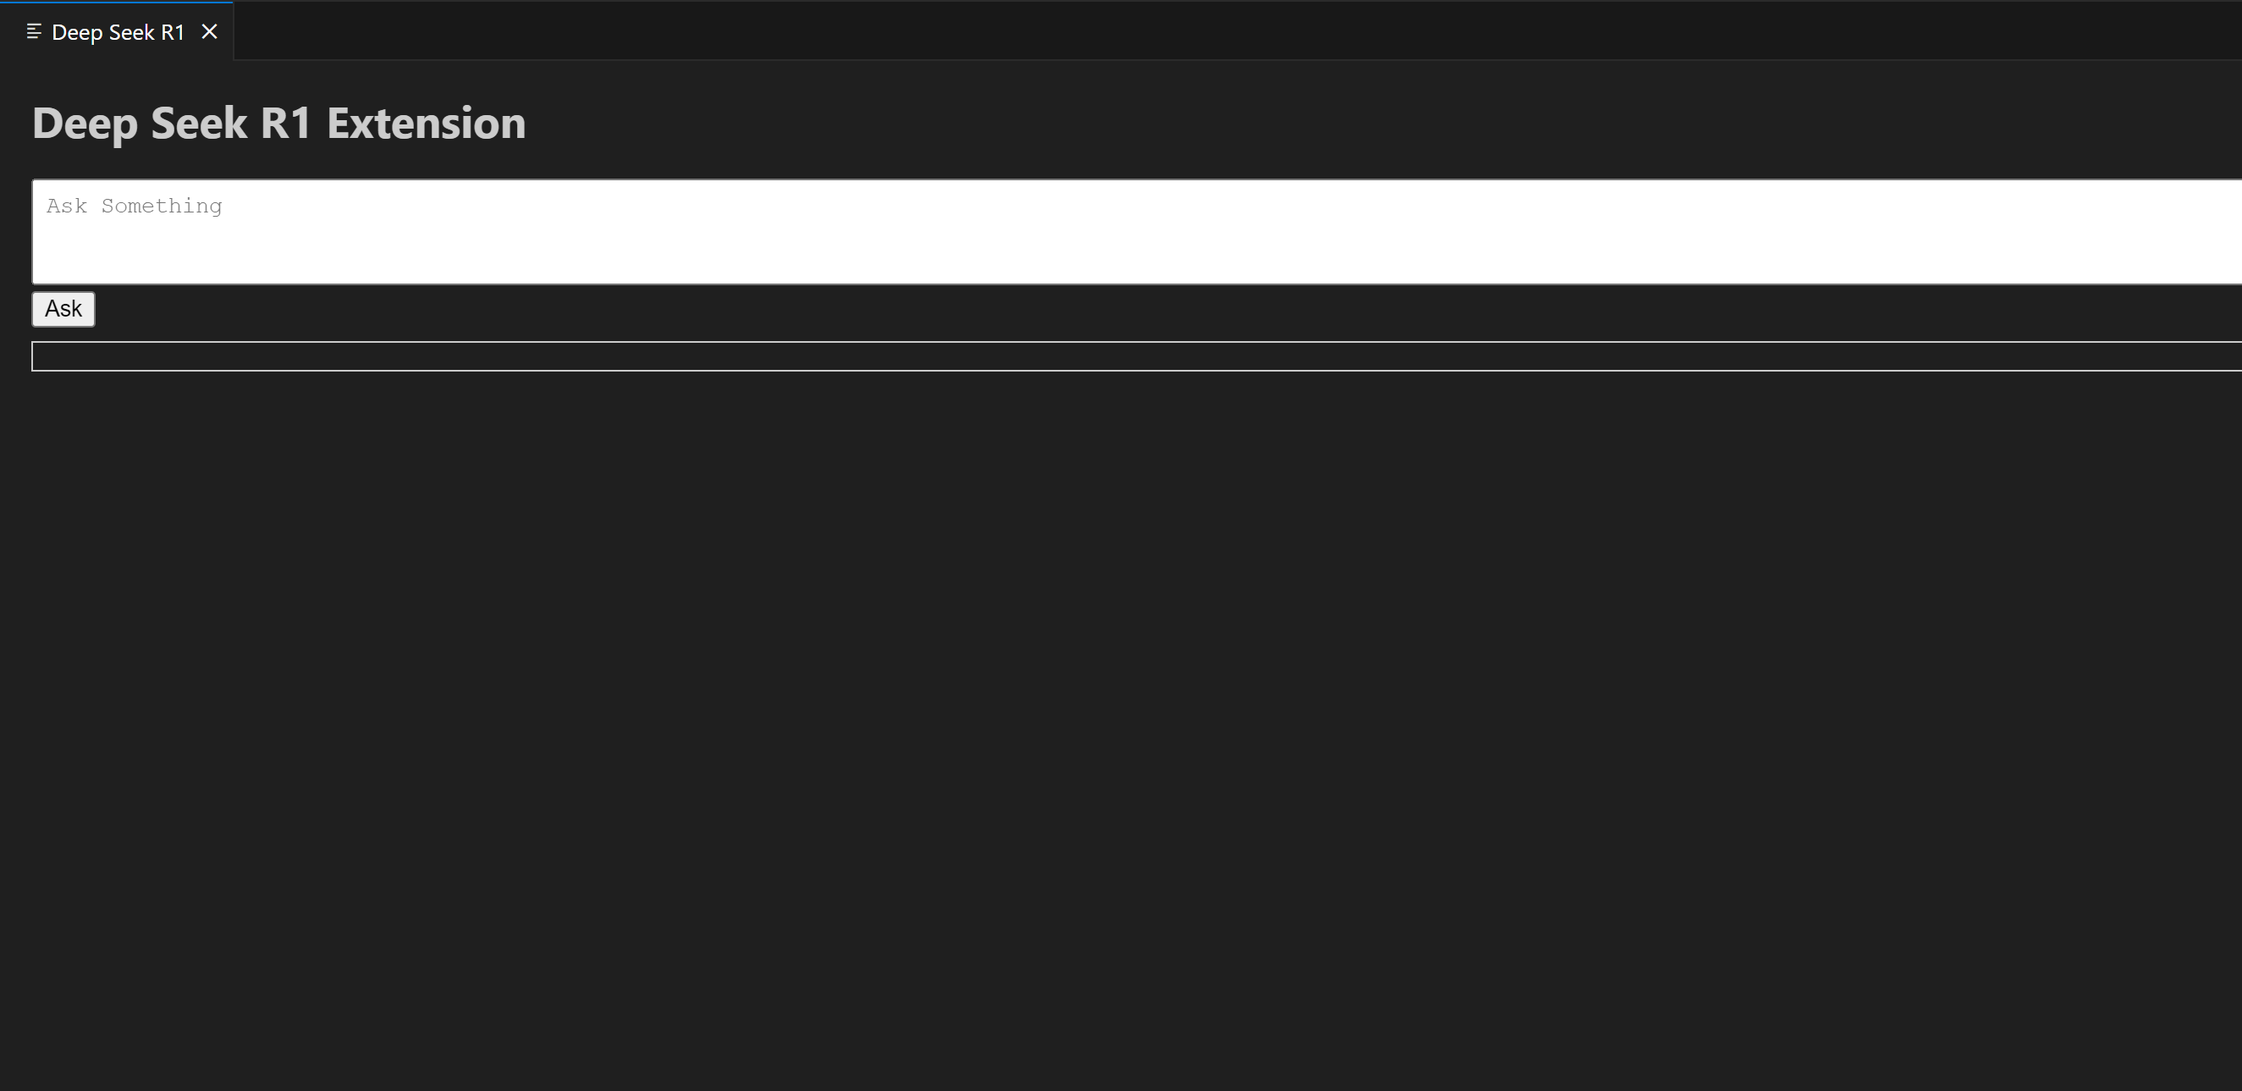
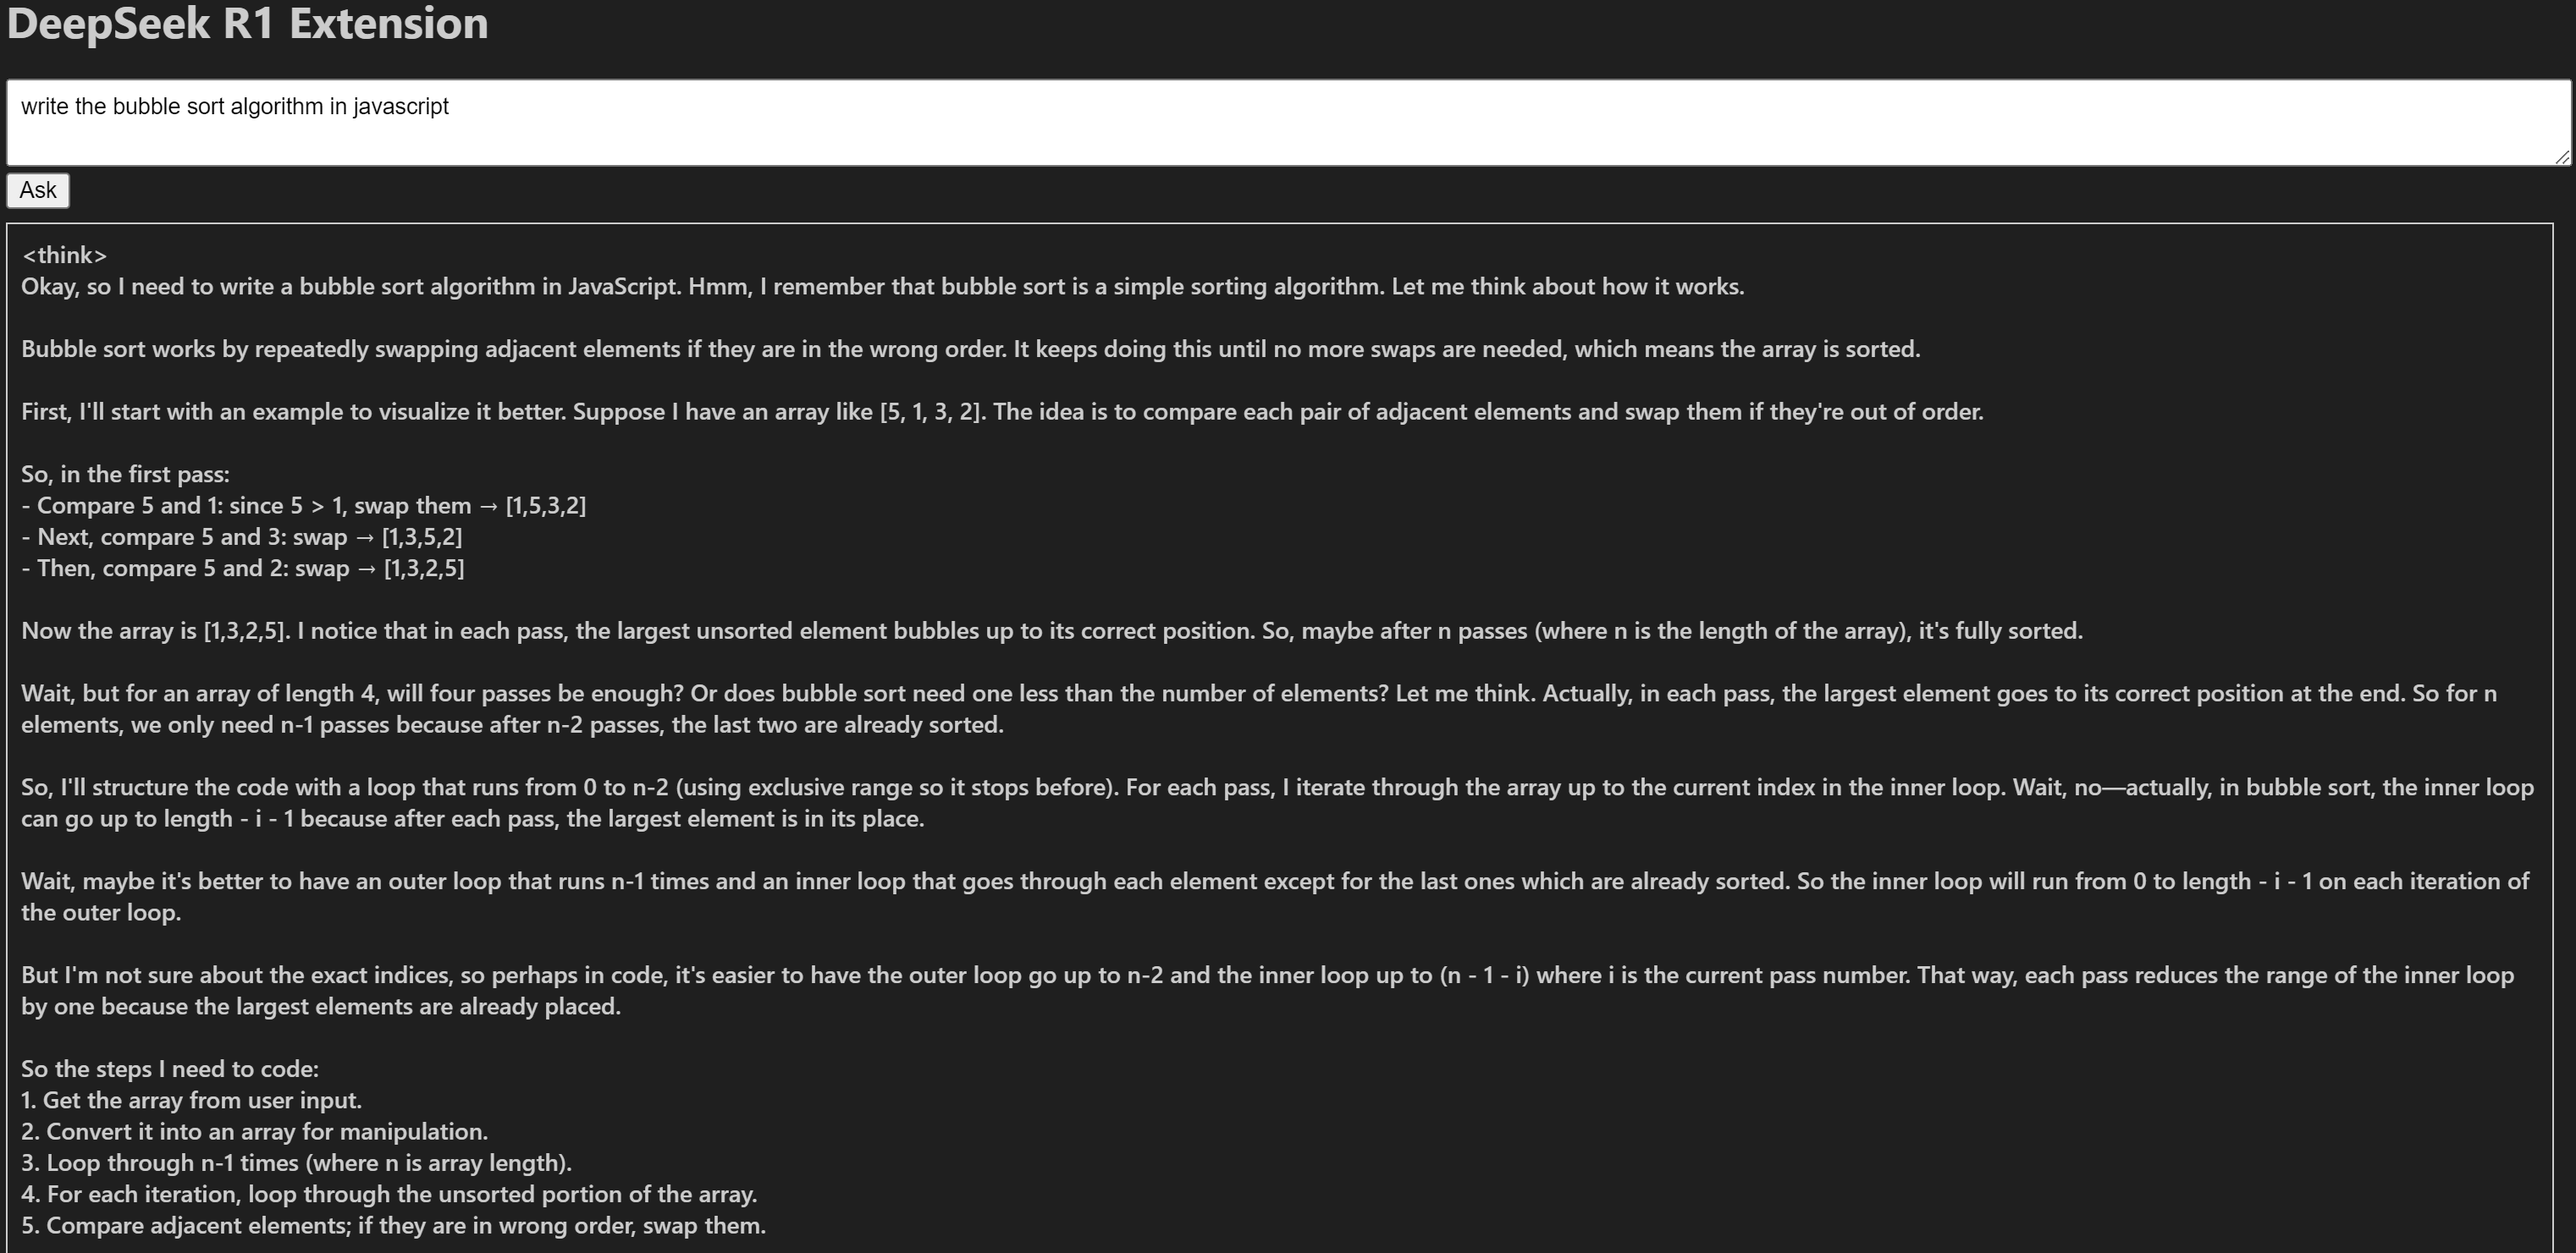
enhance styling and layout of webview content in extension

diff --git a/src/extension.ts b/src/extension.ts
@@ -60,13 +60,13 @@ function getWebviewContent(): string {
 			<title>Deep Seek R1</title>
 			<style>
 				body { font-family: sans-serif, margin: 1rem; }
-				#prompt { width:100%; box-sizing: border-box; padding: 0.5rem; }
-				#response { border: 1px solid #ccc; padding: 0.5rem; margin-top: 0.5rem; }
+				#prompt { width:100%; box-sizing: border-box; padding: 0.5rem; font-family: sans-serif; font-weight: 500; }
+				#response { border: 1px solid #ccc; padding: 0.5rem; margin-top: 0.5rem; font-size: 14px; font-weight: 500; }
 			</style>
 		</head>
 		<body>
 			<h1>DeepSeek R1 Extension</h1>
-			<textarea id="prompt" rows="3" placeholder="Ask Something"></textarea> <br />
+			<textarea id="prompt" rows="4" placeholder="Ask Something"></textarea> <br />
 			<button id="askBtn">Ask</button>
 			<div id="response"></div>
 			<script>
